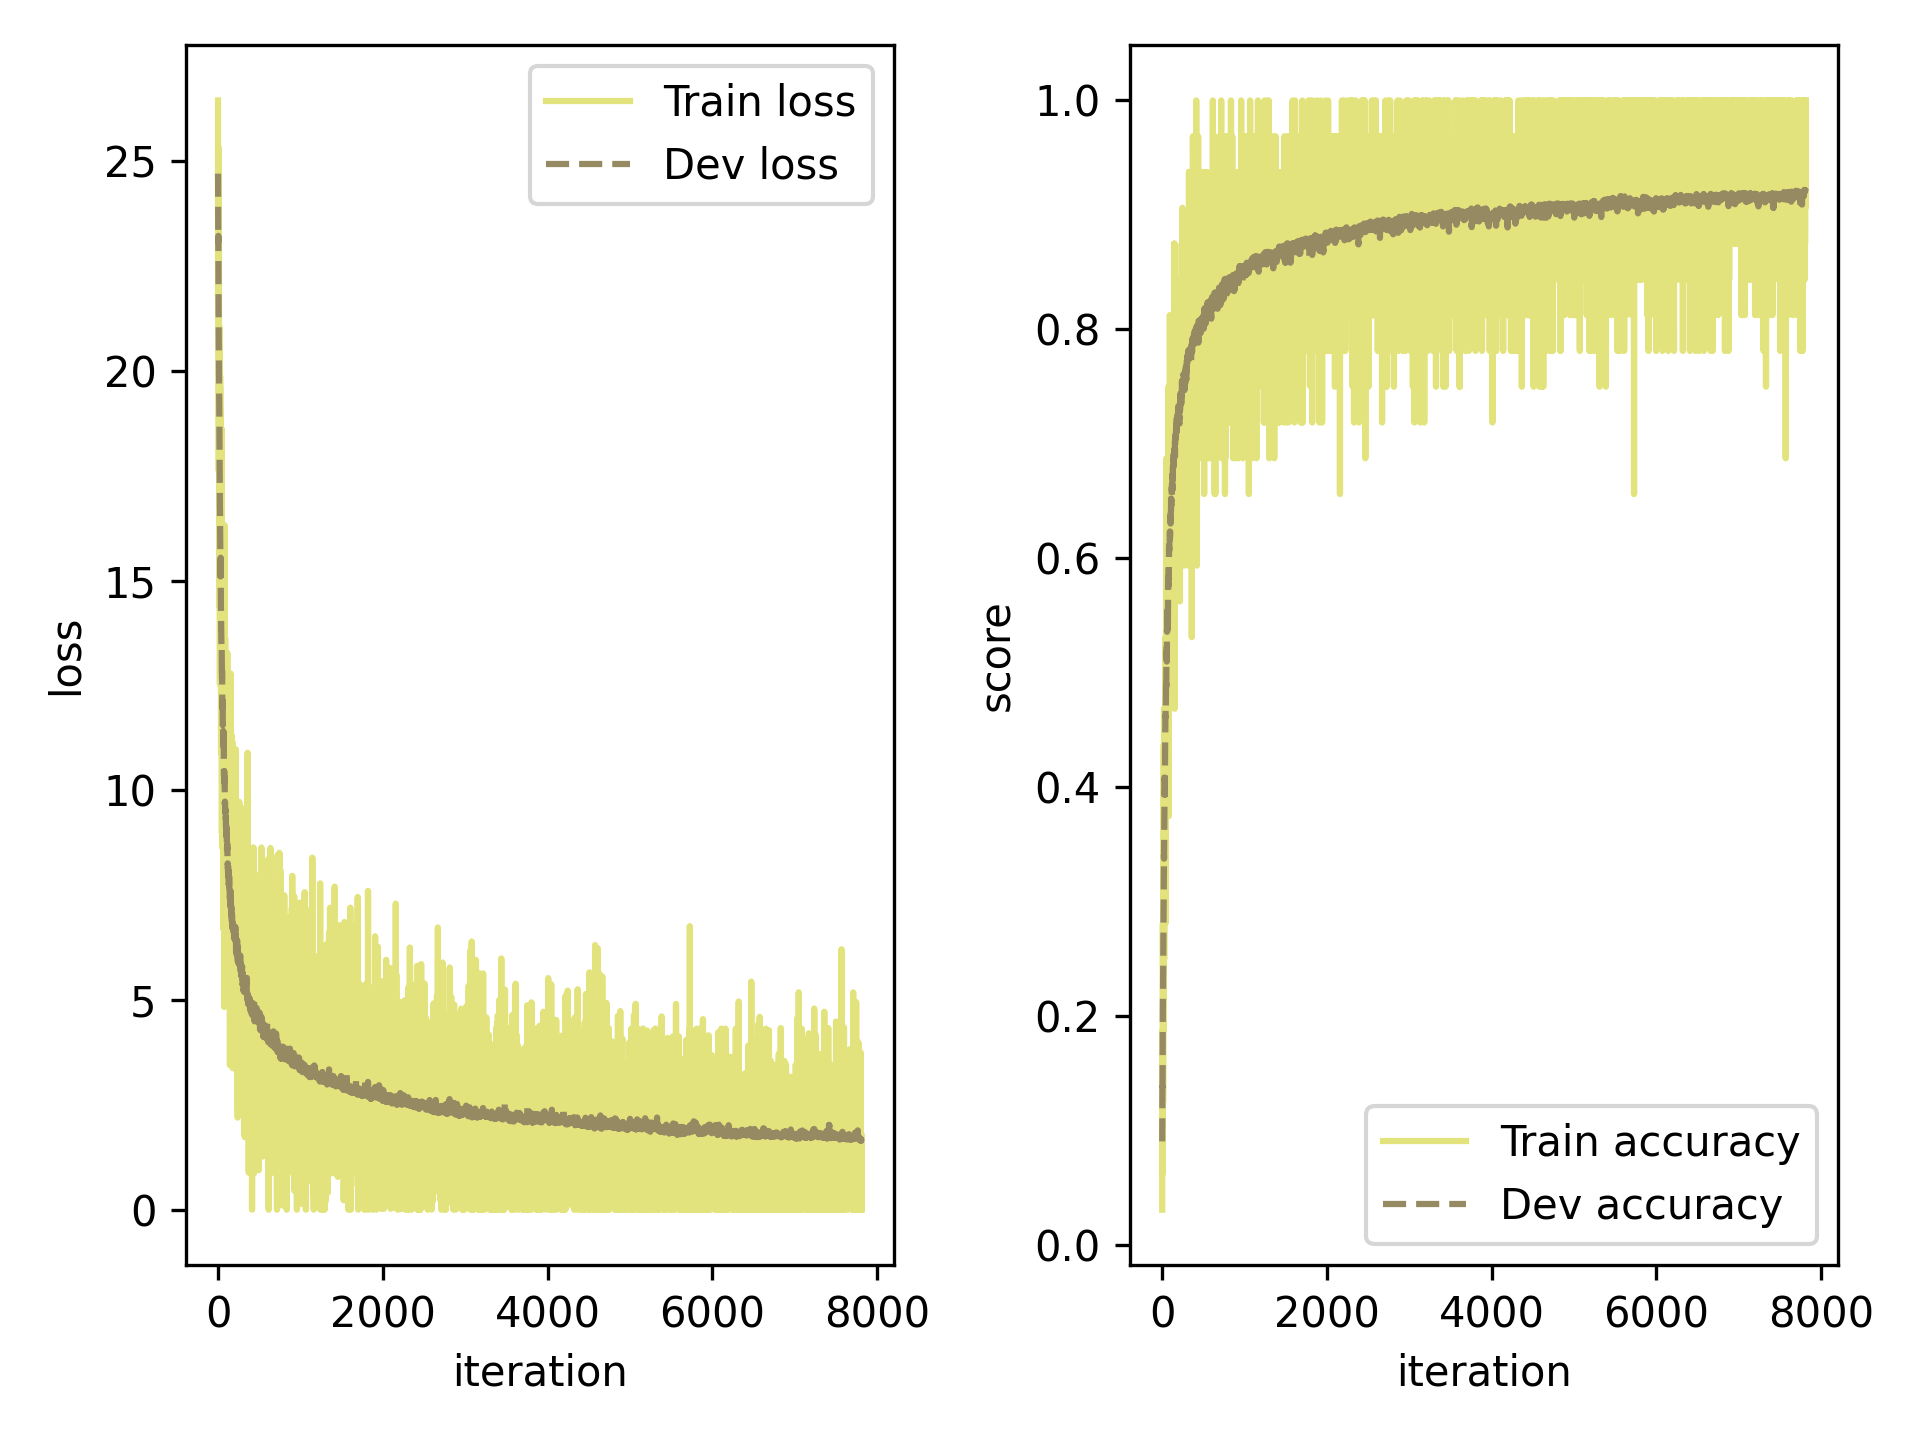
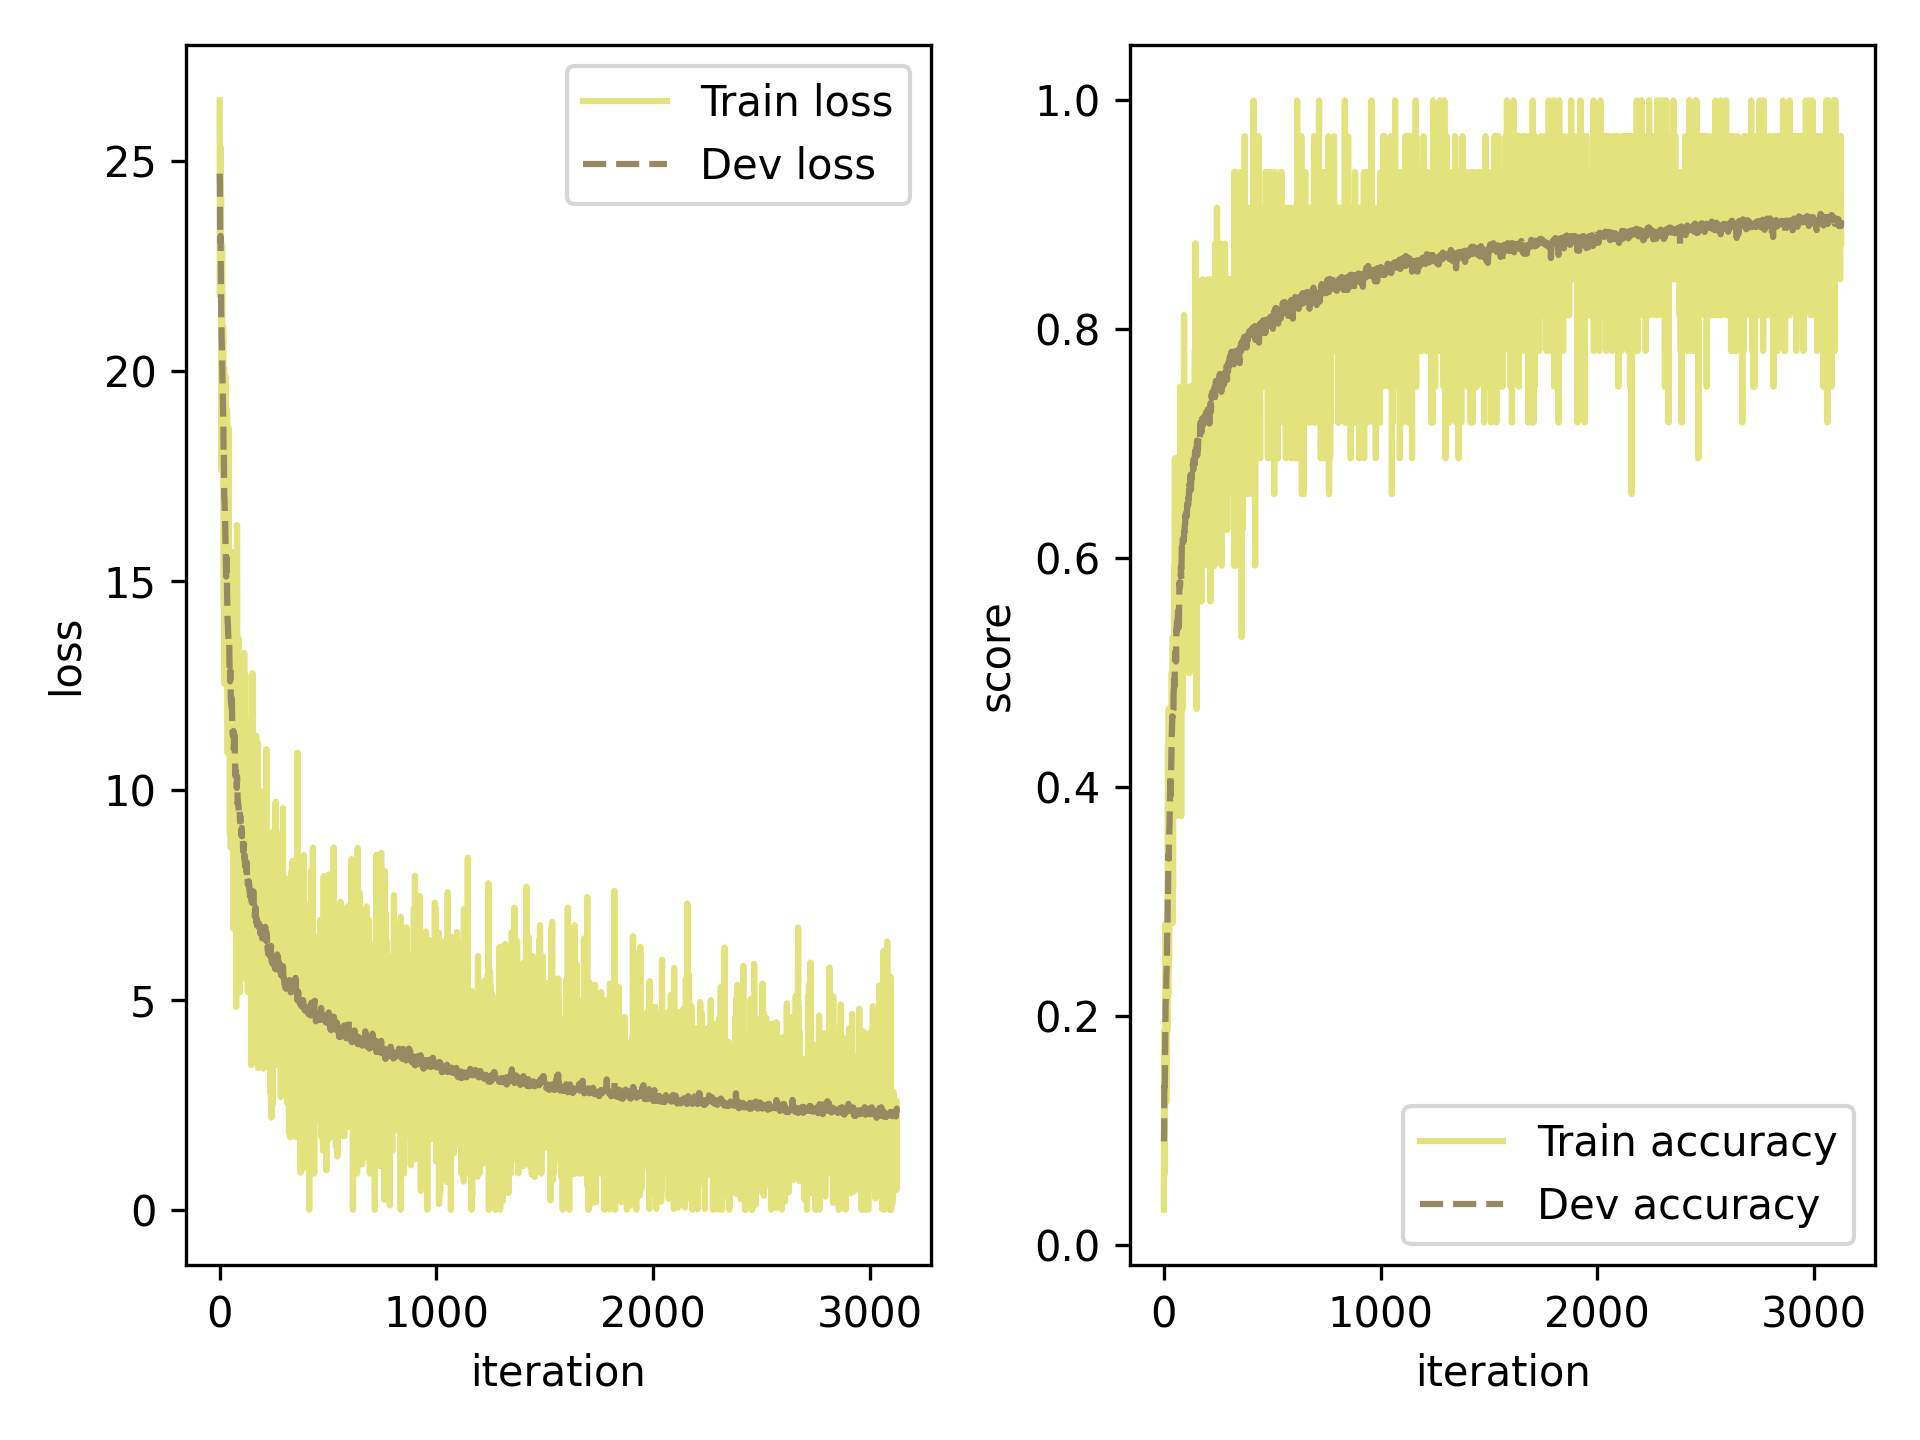
Initial commit: 项目基础框架

diff --git a/test_train.py b/test_train.py
@@ -1,4 +1,3 @@
-# An example of read in the data and train the model. The runner is implemented, while the model used for training need your implementation.
 import mynn as nn
 from draw_tools.plot import plot
 
@@ -9,26 +8,24 @@ import matplotlib.pyplot as plt
 import os
 import pickle
 
-# fixed seed for experiment
+# 固定随机种子
 np.random.seed(309)
 
 train_images_path = './dataset/MNIST/train-images-idx3-ubyte.gz'
 train_labels_path = './dataset/MNIST/train-labels-idx1-ubyte.gz'
 
 with gzip.open(train_images_path, 'rb') as f:
-        magic, num, rows, cols = unpack('>4I', f.read(16))
-        train_imgs=np.frombuffer(f.read(), dtype=np.uint8).reshape(num, 28*28)
+    magic, num, rows, cols = unpack('>4I', f.read(16))
+    train_imgs = np.frombuffer(f.read(), dtype=np.uint8).reshape(num, 28*28)
     
 with gzip.open(train_labels_path, 'rb') as f:
-        magic, num = unpack('>2I', f.read(8))
-        train_labs = np.frombuffer(f.read(), dtype=np.uint8)
+    magic, num = unpack('>2I', f.read(8))
+    train_labs = np.frombuffer(f.read(), dtype=np.uint8)
 
-
-# choose 10000 samples from train set as validation set.
+# 划分验证集
 idx = np.random.permutation(np.arange(num))
-# save the index.
 with open('idx.pickle', 'wb') as f:
-        pickle.dump(idx, f)
+    pickle.dump(idx, f)
 train_imgs = train_imgs[idx]
 train_labs = train_labs[idx]
 valid_imgs = train_imgs[:10000]
@@ -36,33 +33,36 @@ valid_labs = train_labs[:10000]
 train_imgs = train_imgs[10000:]
 train_labs = train_labs[10000:]
 
-# normalize from [0, 255] to [0, 1]
+# 归一化
 train_imgs = train_imgs / train_imgs.max()
 valid_imgs = valid_imgs / valid_imgs.max()
 
-# Optimization experiment: MLP + momentum SGD + learning-rate scheduling.
+# 优化实验：MLP + 基础 SGD (无动量 mu=0) + 学习率调度
 linear_model = nn.models.Model_MLP([train_imgs.shape[-1], 600, 10], 'ReLU')
-optimizer = nn.optimizer.MomentGD(init_lr=0.03, model=linear_model, mu=0.9)
+
+# 【改动点】将 mu 设为 0，让其退化为不带动量的纯 SGD 优化器
+optimizer = nn.optimizer.MomentGD(init_lr=0.03, model=linear_model, mu=0.0) 
+
 scheduler = nn.lr_scheduler.MultiStepLR(optimizer=optimizer, milestones=[800, 2400, 4000], gamma=0.5)
 loss_fn = nn.op.MultiCrossEntropyLoss(model=linear_model, max_classes=train_labs.max()+1)
 
+# 重新把 scheduler 传进去
 runner = nn.runner.RunnerM(linear_model, optimizer, nn.metric.accuracy, loss_fn, scheduler=scheduler)
 
 runner.train(
-        [train_imgs, train_labs],
-        [valid_imgs, valid_labs],
-        num_epochs=1,
-        log_iters=100,
-        save_dir='./best_models_optimized',
-        checkpoint_dir='./saved_models_optimized',
-        checkpoint_interval=1000
+    [train_imgs, train_labs],
+    [valid_imgs, valid_labs],
+    num_epochs=1,
+    log_iters=100,
+    save_dir='./best_models_optimized_lr',
+    checkpoint_dir='./saved_models_optimized_lr',
+    checkpoint_interval=1000
 )
 
 fig, axes = plt.subplots(1, 2)
-axes.reshape(-1)
 fig.set_tight_layout(1)
 plot(runner, axes)
 
 os.makedirs('./figs', exist_ok=True)
-fig.savefig('./figs/learning_curve_optimized.png', dpi=300)
+fig.savefig('./figs/learning_curve_optimized_lr.png', dpi=300)
 plt.show()

diff --git a/test_train_cnn.py b/test_train_cnn.py
@@ -1,4 +1,3 @@
-# Train a simple CNN on MNIST and save checkpoints/learning curve.
 import mynn as nn
 from draw_tools.plot import plot
 
@@ -33,11 +32,16 @@ valid_labs = train_labs[:10000]
 train_imgs = train_imgs[10000:]
 train_labs = train_labs[10000:]
 
-# Optimization experiment: simple CNN + momentum SGD + learning-rate scheduling.
+# 优化实验：simple CNN + 基础 SGD (无动量 mu=0) + 学习率调度
 cnn_model = nn.models.Model_CNN(img_shape=(1, rows, cols), num_classes=train_labs.max() + 1)
-optimizer = nn.optimizer.MomentGD(init_lr=0.03, model=cnn_model, mu=0.9)
+
+# 【改动点】将 mu 设为 0，关闭动量机制
+optimizer = nn.optimizer.MomentGD(init_lr=0.03, model=cnn_model, mu=0.0)
+
 scheduler = nn.lr_scheduler.MultiStepLR(optimizer=optimizer, milestones=[800, 2400, 4000], gamma=0.5)
 loss_fn = nn.op.MultiCrossEntropyLoss(model=cnn_model, max_classes=train_labs.max() + 1)
+
+# 重新恢复了 scheduler=scheduler 参数
 runner = nn.runner.RunnerM(cnn_model, optimizer, nn.metric.accuracy, loss_fn, batch_size=32, scheduler=scheduler)
 
 runner.train(
@@ -45,8 +49,8 @@ runner.train(
     [valid_imgs, valid_labs],
     num_epochs=1,
     log_iters=100,
-    save_dir='./best_cnn_models_optimized',
-    checkpoint_dir='./saved_cnn_models_optimized',
+    save_dir='./best_cnn_models_optimized_lr',
+    checkpoint_dir='./saved_cnn_models_optimized_lr',
     checkpoint_interval=1000
 )
 
@@ -55,5 +59,5 @@ fig.set_tight_layout(1)
 plot(runner, axes)
 
 os.makedirs('./figs', exist_ok=True)
-fig.savefig('./figs/cnn_learning_curve_optimized.png', dpi=300)
+fig.savefig('./figs/cnn_learning_curve_optimized_lr.png', dpi=300)
 plt.show()